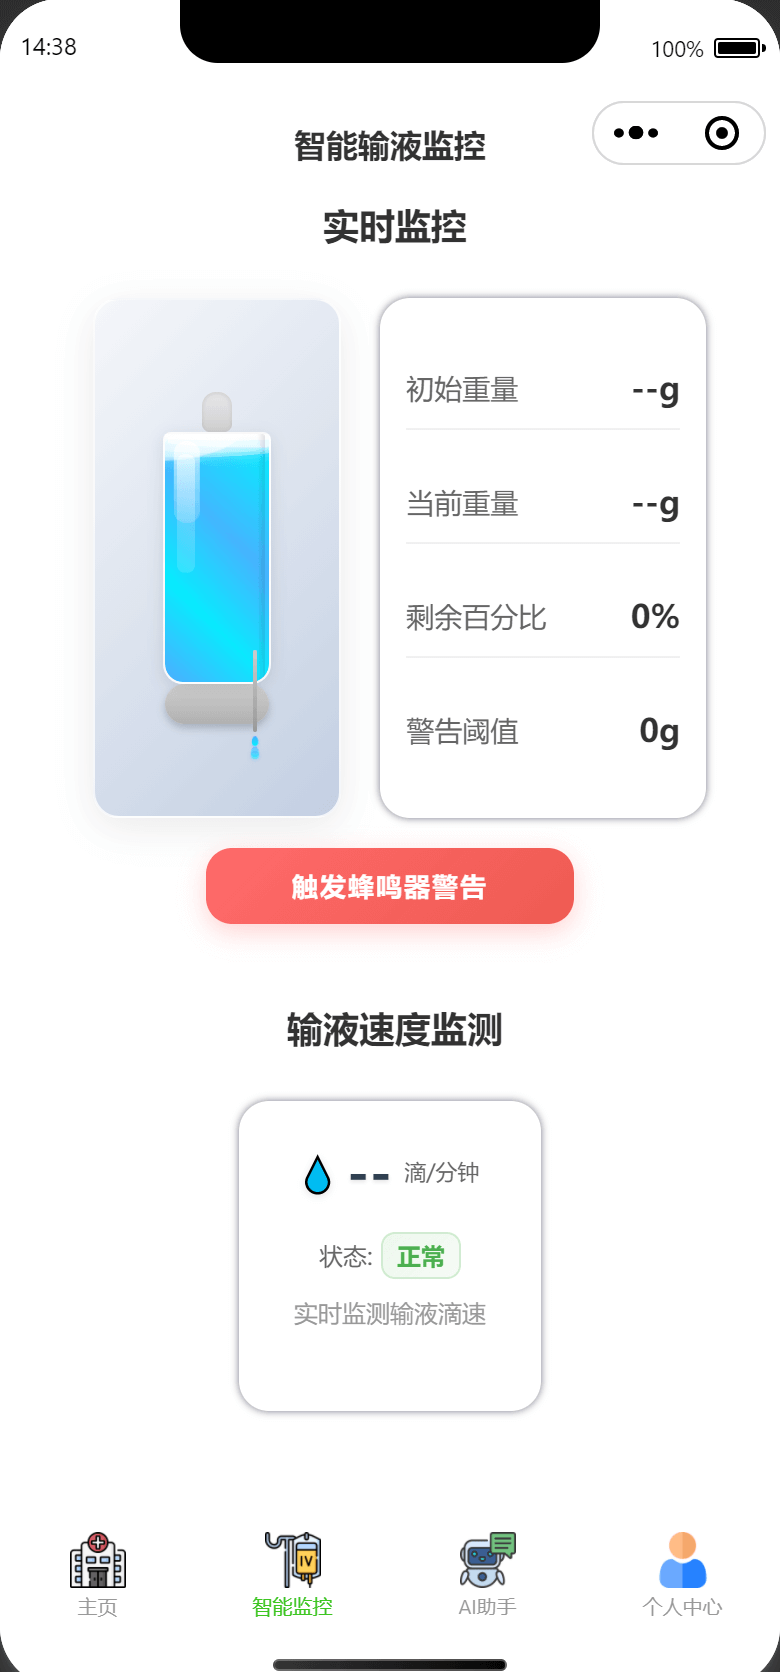
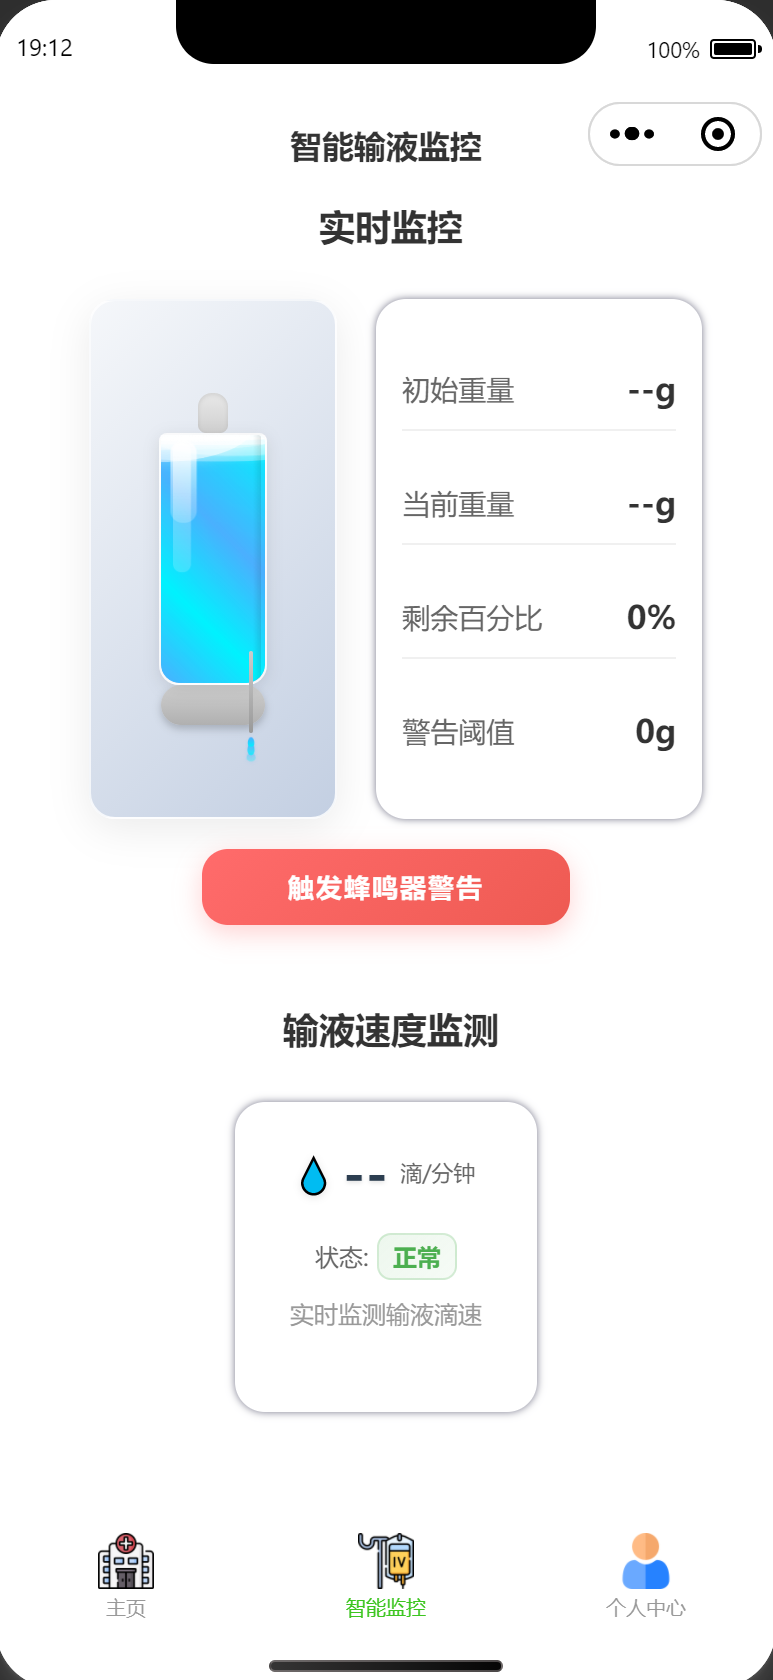
Drop: Remove AI features for README_EN.md and update show images
- 移除了英文README_EN.md文档中关于AI的相关内容
- 更新了小程序界面展示图

diff --git a/README_EN.md b/README_EN.md
@@ -1,6 +1,6 @@
 # 🏥 IoT Patient Health Monitoring System
 
-An intelligent health monitoring system based on ESP32-S3 hardware and WeChat Mini Program, enabling real-time physiological data collection, AI health analysis, and remote monitoring capabilities.
+An intelligent health monitoring system based on ESP32-S3 hardware and WeChat Mini Program, enabling real-time physiological data collection and remote monitoring capabilities.
 
 ## 🌐 Language / 语言
 
@@ -12,28 +12,21 @@ An intelligent health monitoring system based on ESP32-S3 hardware and WeChat Mi
 <div align="center">
   <table>
     <tr>
-      <td align="center" width="25%">
+      <td align="center" width="33%">
         <img src="images/index-display-image.png" width="200" alt="Home Interface"/>
         <br/>
         <b>Home Monitoring</b>
         <br/>
         <sub>Real-time Physiological Monitoring</sub>
       </td>
-      <td align="center" width="25%">
+      <td align="center" width="33%">
         <img src="images/smart-monitor-display-image.png" width="200" alt="Smart Infusion Monitoring Interface"/>
         <br/>
         <b>Smart Infusion Monitoring</b>
         <br/>
-        <sub>Real-time Infusion Monitoring</sub>
+        <sub>Real-time Infusion Animation Monitoring</sub>
       </td>
-      <td align="center" width="25%">
-        <img src="images/ai-doctor-display-image.png" width="200" alt="AI Assistant Interface"/>
-        <br/>
-        <b>AI Assistant</b>
-        <br/>
-        <sub>Intelligent Health Analysis</sub>
-      </td>
-      <td align="center" width="25%">
+      <td align="center" width="33%">
         <img src="images/profile-display-image.png" width="200" alt="Profile Interface"/>
         <br/>
         <b>User Profile</b>
@@ -44,44 +37,67 @@ An intelligent health monitoring system based on ESP32-S3 hardware and WeChat Mi
   </table>
 </div>
 
-### Home Monitoring Interface
+### 🏠 Home Monitoring Interface
 
-Real-time display of patient's key physiological indicators:
+Real-time display of patient's key physiological indicators and environmental data:
 
-- 🌡 **Temperature Monitoring** - Accurate to 0.1°C
-- 💧 **Humidity Monitoring** - Real-time environmental humidity tracking
+**Human Health Indicators:**
 - 🫁 **Breathing Rate** - Breaths per minute
+- ❤ **Heart Rate Monitoring** - Real-time heart rate
 - 🩸 **Blood Oxygen Saturation** - Real-time SpO2 monitoring
+
+**Environmental Monitoring Data:**
+- 🌡 **Environmental Temperature** - Accurate to 0.1°C
+- 💧 **Environmental Humidity** - Real-time humidity tracking
+- ☀ **Light Intensity** - Environmental light monitoring
+- 🌪 **Atmospheric Pressure** - Real-time atmospheric pressure tracking
+
+**Device Control:**
 - 💡 **Device Control** - LED lighting and buzzer control
 
-### Smart Infusion Monitoring
+### 💧 Smart Infusion Monitoring
 
-Intelligent infusion management system:
+Professional infusion monitoring features:
 
-- 💧 **Real-time Liquid Level** - Visual liquid bottle animation with real-time level display
-- ⚖ **Weight Monitoring** - Initial weight, current weight, and remaining percentage tracking
-- 🚨 **Smart Alerts** - Automatic buzzer warnings when liquid level is low
-- 📊 **Infusion Rate Monitoring** - Real-time drip rate measurement (drops/minute)
-- 🎯 **Status Tracking** - Normal, warning, and danger status indicators
-- 🔧 **Threshold Settings** - Customizable warning thresholds for different scenarios
+**Real-time Animation Monitoring:**
+- 🧪 **3D Infusion Bottle Animation** - High-precision 24-frame liquid animation, real-time liquid changes
+- 🌊 **Wave Effects** - Natural liquid surface wave animation for enhanced visual realism
+- ✨ **Highlight Reflection** - Bottle glass highlights and liquid surface reflection effects
+- 🎭 **Shadow Rendering** - 3D shadow effects for enhanced visual depth
+- 💧 **Infusion Tube Animation** - Droplet animation simulating real infusion process
 
-### AI Intelligent Assistant
+**Data Monitoring:**
+- ⚖ **Weight Monitoring** - Real-time display of initial weight, current weight, and remaining percentage
+- � **Smart Calculation** - Automatic calculation of remaining liquid percentage and warning thresholds
+- 🚨 **Low Liquid Warning** - Automatic buzzer warning when liquid is insufficient
+- � **Infusion Speed** - Real-time monitoring of infusion drip rate (drops/minute)
+- 📈 **Status Assessment** - Intelligent assessment of infusion speed status (normal/slow/fast)
 
-Smart health analysis features:
+**MQTT Data Support:**
+- � **patient/monitor/weight-begin** - Receive initial weight data
+- 📡 **patient/monitor/weight** - Receive real-time weight data
+- 📡 **patient/monitor/infusion-speed** - Receive infusion speed data
+- 🔄 **Data Format Compatibility** - Support for both string and numeric data format parsing
 
-- 🤖 **Real-time Conversation** - Intelligent Q&A based on Coze API
-- 📊 **Data Analysis** - Automatic health data trend analysis
-- 💡 **Health Recommendations** - Personalized health guidance
-- 🚨 **Abnormal Alerts** - Intelligent health risk identification
-
-### User Profile
+### 👤 User Profile
 
 User management features:
 
+- � **Login Verification** - Login required before accessing sensitive functions
 - 👤 **Patient Information** - Personal profile management
-- 👨⚕ **Doctor Information** - Attending physician contact details
+- �⚕ **Doctor Information** - Attending physician contact details
 - 👨👩👧👦 **Family Contacts** - Emergency contact management
+- 📊 **Monitoring History** - View historical data chart analysis
 - ⚙ **System Settings** - Personalized configuration options
+
+**Security Features:**
+- Unauthorized users attempting to access sensitive functions will be prompted to login first
+- Login status is persistently saved and automatically restored after app restart
+- Support one-click logout to clear all local user data
+
+### 📊 Monitoring History
+
+Professional historical data visualization features:
 
 ## 🏗 System Architecture
 
@@ -91,13 +107,13 @@ User management features:
 │   Hardware      │◄──►│   Node.js API   │◄──►│   Program       │
 │   Sensors       │    │   Server        │    │   Frontend      │
 └─────────────────┘    └─────────────────┘    └─────────────────┘
-         │                       │                       │
-         │                       │                       │
-    ┌────▼────┐             ┌────▼────┐             ┌────▼────┐
-    │  MQTT   │             │  MySQL  │             │  Coze   │
-    │ Message │             │Database │             │ AI API  │
-    │  Queue  │             │         │             │         │
-    └─────────┘             └─────────┘             └─────────┘
+         │                       │
+         │                       │
+    ┌────▼────┐             ┌────▼────┐
+    │  MQTT   │             │  MySQL  │
+    │ Message │             │Database │
+    │  Queue  │             │         │
+    └─────────┘             └─────────┘
 ```
 
 ## 🚀 Core Features
@@ -109,12 +125,12 @@ User management features:
 - **Historical Data Storage**: Complete monitoring history stored in MySQL database
 - **Data Visualization**: Real-time charts and trend analysis
 
-### 🤖 AI Intelligent Analysis
+### 📊 Health Data Analysis
 
-- **Health Data Analysis**: Intelligent health assessment based on Coze API
+- **Health Data Assessment**: Comprehensive health evaluation based on collected data
 - **Anomaly Detection**: Automatic identification of physiological indicator abnormalities
 - **Personalized Recommendations**: Customized health advice based on user data
-- **Real-time Q&A**: 24/7 intelligent health consultation service
+- **Real-time Consultation**: 24/7 health consultation service
 
 ### 🔧 Device Control
 
@@ -143,7 +159,6 @@ User management features:
 - **Express.js**: Web application framework
 - **MySQL**: Relational database
 - **MQTT**: IoT message transmission protocol
-- **Coze API**: AI conversation service
 
 ### Hardware Technologies
 
@@ -160,13 +175,12 @@ LoTProject/
 │   ├── pages/                 # Page files
 │   │   ├── index/            # Home monitoring interface
 │   │   ├── smart-monitor/    # Smart infusion monitoring
-│   │   ├── ai-doctor/        # AI assistant page
 │   │   ├── profile/          # User profile
 │   │   ├── patient-info/     # Patient information
 │   │   ├── doctor-info/      # Doctor information
-│   │   └── family-contact/   # Family contacts
+│   │   ├── family-contact/   # Family contacts
+│   │   └── history/          # Monitoring history
 │   ├── utils/                # Utility functions
-│   │   ├── ai.js            # AI assistant tools
 │   │   ├── mqtt.js          # MQTT communication
 │   │   └── util.js          # Common utilities
 │   ├── images/              # Image resources
@@ -213,10 +227,6 @@ MQTT_HOST=your_mqtt_broker
 MQTT_PORT=1883
 MQTT_USERNAME=your_username
 MQTT_PASSWORD=your_password
-
-# AI Configuration
-COZE_API_KEY=your_coze_api_key
-COZE_BOT_ID=your_bot_id
 ```
 
 ## 🚀 Quick Start
@@ -258,8 +268,7 @@ npm start
 
 1. Open project with WeChat Developer Tools
 2. Configure server domain (disable domain verification for development)
-3. Configure Coze API key
-4. Compile and preview
+3. Compile and preview
 
 ## 📊 API Interfaces
 
